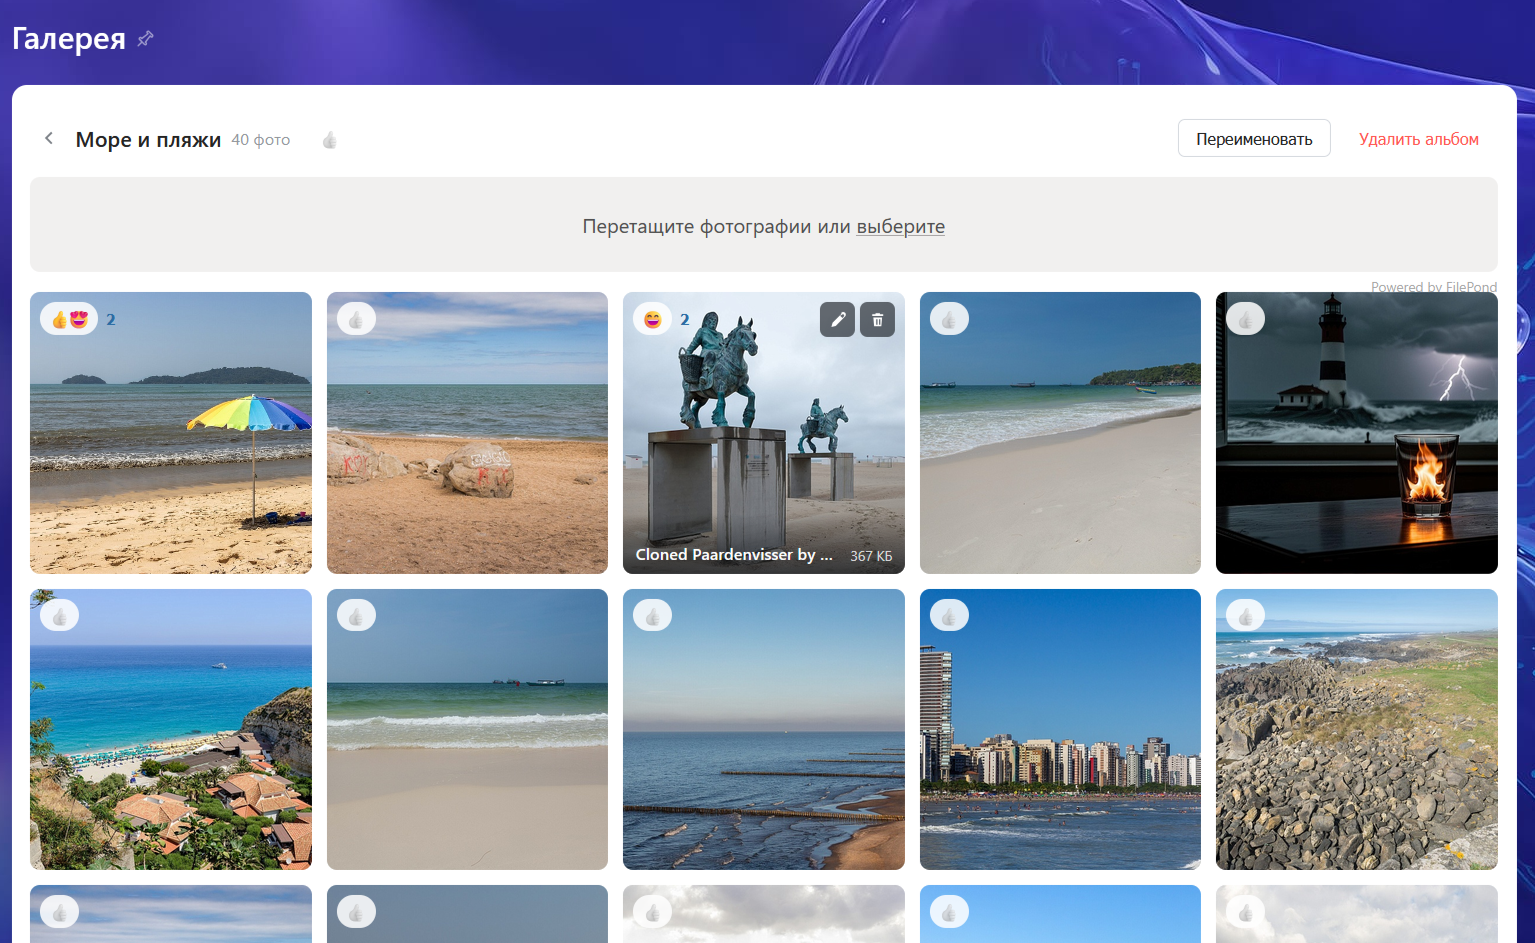
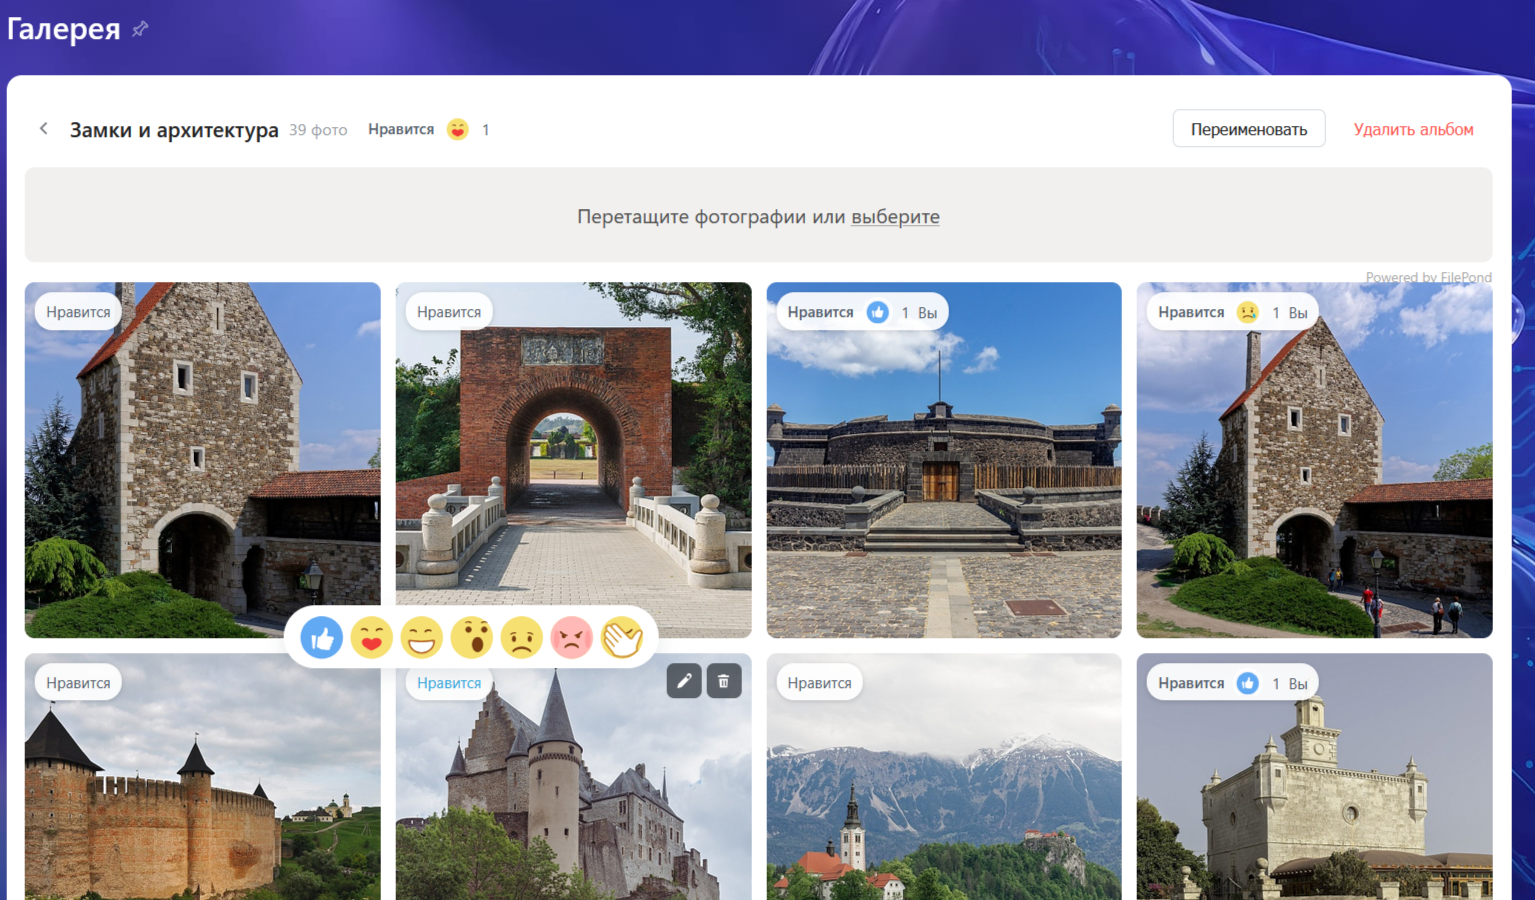
docs: свежие скриншоты (альбомы, альбом, попап правки, редактор)

diff --git a/README.md b/README.md
@@ -43,15 +43,25 @@
 
 ## Скриншоты
 
-Сетка альбомов: обложка из свежей фотографии, счётчик, реакции живой ленты;
-пустой альбом помечается заглушкой «нет фото».
+Сетка альбомов: обложка (первая по ручной сортировке фотография), счётчик,
+реакции живой ленты; пустой альбом помечается заглушкой «нет фото».
 
 ![Сетка альбомов галереи](docs/screenshots-gallery-albums.png)
 
 Альбом: сетка фотографий с автоподгрузкой при скролле, зона загрузки
-FilePond («Перетащите фотографии или выберите»), реакции и счётчик фото.
+FilePond, реакции и счётчик; выбор смайла — штатная панель живой ленты.
 
 ![Альбом с фотографиями](docs/screenshots-gallery-album.png)
+
+Попап редактирования фотографии: название и подпись, замена изображения
+через FilePond и кнопка редактора на самом изображении.
+
+![Попап редактирования фотографии](docs/screenshots-gallery-edit.png)
+
+Штатный редактор изображений Bitrix24 (кадрирование, поворот, фильтры,
+стикеры, текст) — результат сохраняется как замена изображения.
+
+![Редактор изображений](docs/screenshots-gallery-editor.png)
 
 ## Установка
 
